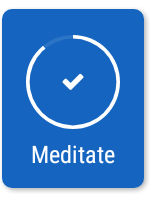
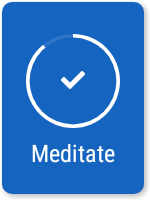
Update test screenshots; automatically fetch

diff --git a/uhabits-android/src/androidTest/java/org/isoron/uhabits/widgets/views/CheckmarkWidgetViewTest.kt b/uhabits-android/src/androidTest/java/org/isoron/uhabits/widgets/views/CheckmarkWidgetViewTest.kt
@@ -50,7 +50,7 @@ class CheckmarkWidgetViewTest : BaseViewTest() {
             name = habit.name
         }
         view.refresh()
-        measureView(view, dpToPixels(100), dpToPixels(200))
+        measureView(view, dpToPixels(100), dpToPixels(125))
     }
 
     @Test
